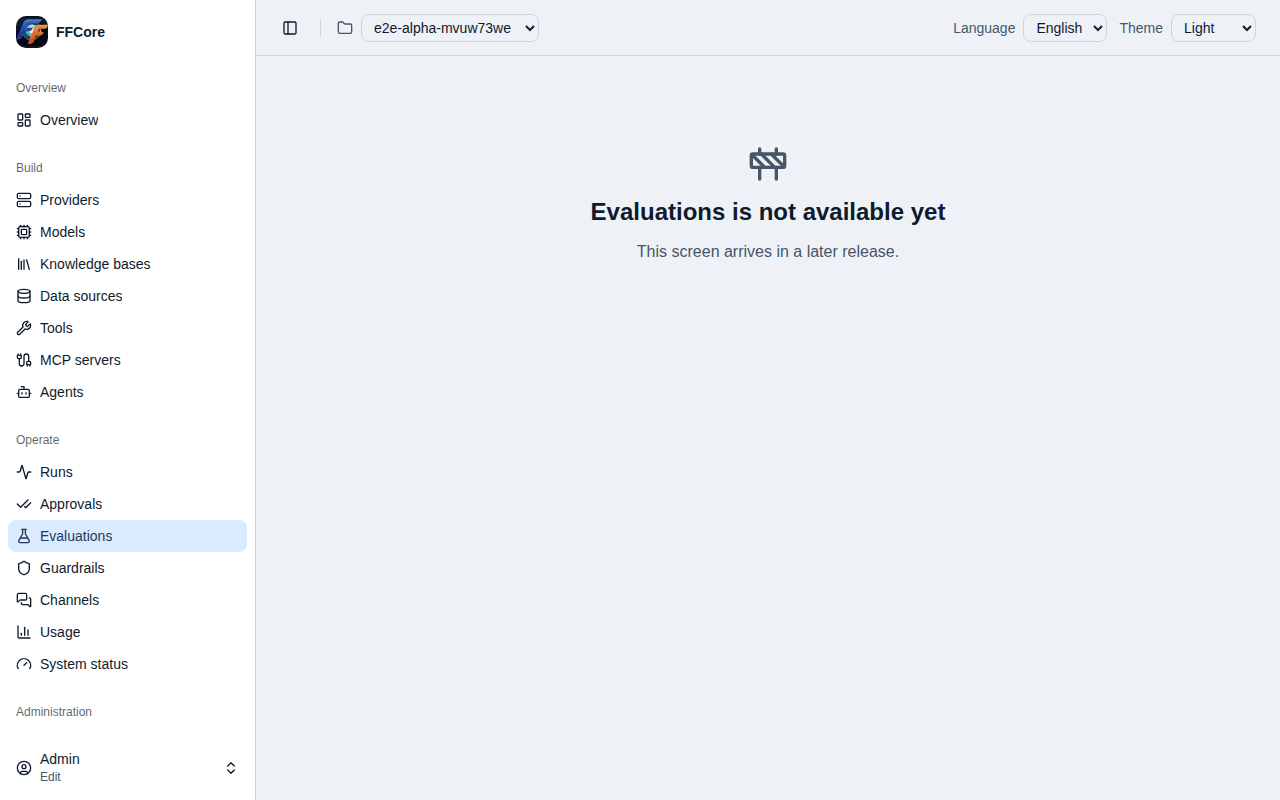
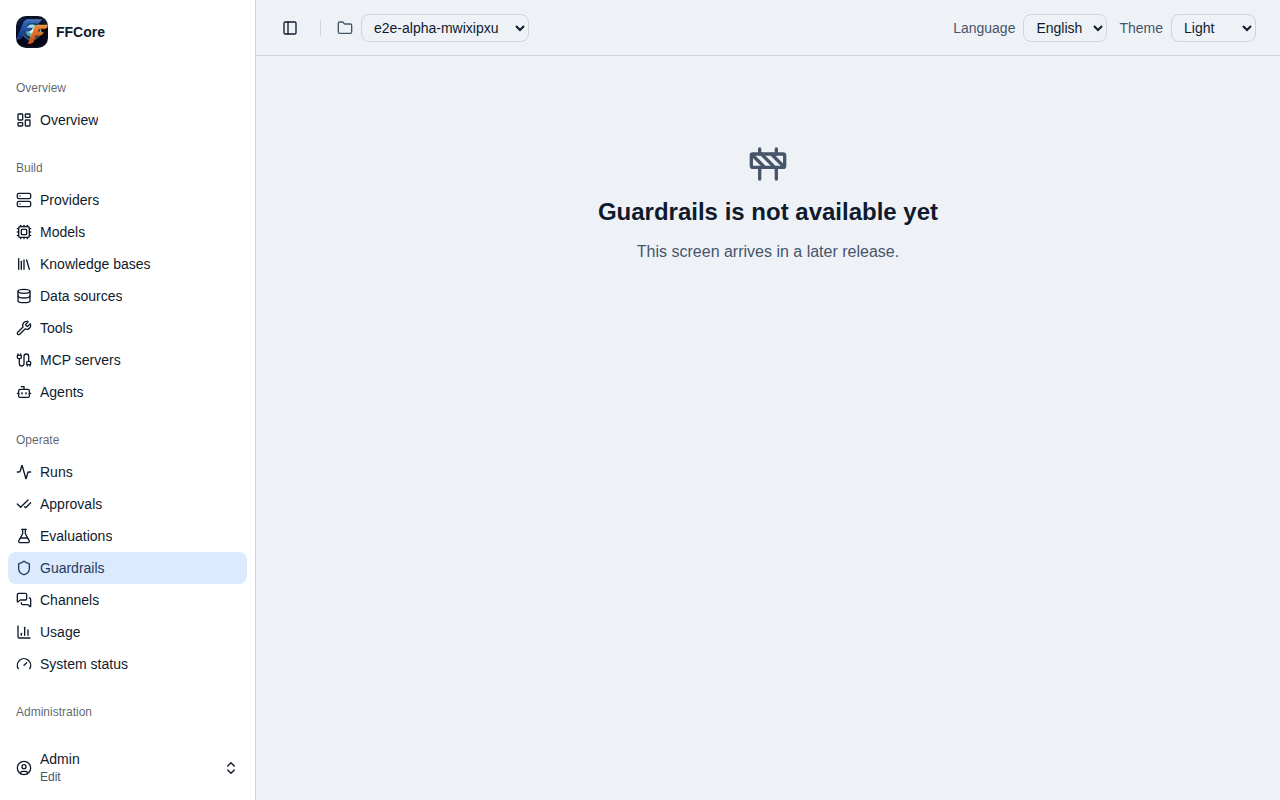
docs(frontend): evaluations screens in onyuz.md with both-theme and edit/read screenshots (10c-1)
The read-only e2e pairs the two superadmins (edit and read) so only the controls and the badge
differ; the not-available screenshot moves to Guardrails now that Evaluations is open.

Changed region(s): [[0.0, 0.625, 0.2188, 0.75], [0.4375, 0.25, 0.75, 0.2812], [0.3438, 0.0312, 0.4062, 0.0625]]

diff --git a/frontend/tests/e2e/test_10c1_5_read_only.spec.ts b/frontend/tests/e2e/test_10c1_5_read_only.spec.ts
@@ -7,7 +7,8 @@ import { selectProject, signIn } from "./support";
 
 // GOREV kabul 5 (brief 10): a read-only user sees every exam screen with the same data and no
 // change control enabled. Each screen is captured in edit and in read mode for the PR
-// (docs/images/10c1-<screen>-{edit,read}.png); the difference is the controls and the badge only.
+// (docs/images/10c1-<screen>-{edit,read}.png) by the two superadmins of the fixture (edit and
+// read: same role, same menu), so the difference is the controls and the badge only.
 type Data = Awaited<ReturnType<typeof completedExam>>;
 
 const SCREENS: { name: string; open: (page: Page, d: Data) => Promise<unknown>; controls: string[] }[] = [
@@ -41,9 +42,9 @@ test.beforeAll(async () => {
 
 for (const screen of SCREENS) {
   test(`test_10c1_5_read_only: ${screen.name} in edit and read mode`, async ({ page, context, baseURL }) => {
-    const { alpha, analyst, reader } = fixture();
+    const { alpha, superadmin, reader } = fixture();
     for (const [mode, email] of [
-      ["edit", analyst.email],
+      ["edit", superadmin.email],
       ["read", reader.email],
     ] as const) {
       await context.clearCookies();

diff --git a/docs/onyuz.md b/docs/onyuz.md
@@ -20,11 +20,15 @@ and system status).
 | `/tools` | Tools (MCP and OpenAPI servers) of the selected project | developer | list; register (admin) |
 | `/tools/{id}` | One tool: settings, discovered actions, try an action | developer | edit, delete, discover, action switches, try (admin + edit) |
 | `/agents` | Agents of the selected project | analyst | list; create (analyst + edit) |
-| `/agents/{id}` | Agent wizard and test panel | analyst | edit the draft, publish, new draft, roll back, test run (analyst + edit) |
+| `/agents/{id}` | Agent wizard and test panel | analyst | edit the draft, publish, new draft, roll back, test run (analyst + edit); publish past the exam gate (admin + edit) |
 | `/runs` | Runs of the selected project | analyst | list with filters |
-| `/runs/{id}` | One run: summary, answer, events, expert feedback | analyst | cancel (the run's user or an admin), feedback (edit) |
+| `/runs/{id}` | One run: summary, answer, events, expert feedback, Add to exam | analyst | cancel (the run's user or an admin), feedback (edit), add to exam (completed run, analyst + edit) |
 | `/approvals` | Approval queue | analyst | list, pending by default |
 | `/approvals/{id}` | One approval | analyst | approve, reject (when `can_decide`) |
+| `/evaluations` | Exam suites of the selected project | analyst | list; create (analyst + edit) |
+| `/evaluations/{id}` | One suite: settings, exam start, its exams, compare pick | analyst | edit, delete, start an exam (analyst + edit); compare (read too) |
+| `/evaluations/runs/{id}` | One exam: live progress, summary, the 10 worst items | analyst | cancel while it runs (analyst + edit) |
+| `/evaluations/compare?a=&b=` | Two exams of one suite, item by item | analyst | read only |
 | `/overview` and every other menu item | Later packages (10c and others) | see role matrix | "not available yet" page |
 | `/dev/theme` | Components in both themes side by side | none | done |
 
@@ -208,6 +212,44 @@ contract is shown as an error, never as "ready". Without model weights the page 
   run; the buttons follow `can_decide` (signed-in user, edit access, role at least the assigned
   one) and the backend's 403/409 codes become messages.
 
+## Evaluations (09)
+
+- **Suites.** Analysts and above read suites; creating, editing, deleting and starting an exam
+  need edit access (09 `Editor = analyst, write`). The form sends only what is filled: a blank
+  dataset name, pass threshold or scorer value leaves the backend's documented default
+  (`<project_key>.<key>`, `EVAL_PASS_THRESHOLD`, judge 4, semantic 0.8). `approve_tools` is an
+  explicit switch with its consequence written next to it; the exam never approves anything.
+  Binding an agent makes the suite gate that agent's publish.
+- **Items.** Exam questions live in the suite's Langfuse dataset (09 brief, ARCH-09). The console
+  does not list or edit them (K-10C1-0002 S2); it adds one from a completed run with "Add to
+  exam" on the run page. The backend masks the question and the expectation with the agent's
+  egress policy first, and the console shows what it did (`masking`: `none`, `regex` with person
+  names stored as written, or `regex+ner`; `masked_fields`). Refusals keep their code:
+  `run_input_blocked`, `expected_would_be_masked`, `ner_unavailable`.
+- **Exams.** "Start exam" takes the suite's gated agent (or one the user picks) and a version with
+  a visible default: the draft when there is one, else the published version (S4). The exam page
+  follows `GET /eval-runs/{id}/stream` with `fetch`: `progress` counts, then `done`; an unknown
+  event name is logged and skipped. A dropped stream is reopened a few times, then reported as
+  lost and the page reads the exam with `GET` every few seconds; nothing is guessed about how it
+  ended. The summary is shown as written: pass rate against the threshold, scored / items,
+  completeness (`complete=false` says the exam did not finish unattended), not-run reasons with
+  their code (`approval_required`, `partial:<code>` for some repeats, an unknown code raw),
+  errors (`judge_out_of_time`, `judge_failed:*`, `advance_failed:*`), outcome and style counts,
+  warm-up apart from latency, and the 10 worst items, labelled as such: a full item table needs
+  FOLLOWUP-185. `EvalRunOut.summary` is untyped in the contract, so the console reads it with a
+  narrow schema and shows "could not be read" with the failing field rather than an empty result.
+- **Compare.** Two completed exams of one suite, picked on the suite page (read access too):
+  summary differences, each exam's completeness, the configuration warning (`config_differs`),
+  item changes (`fixed`, `regressed`, `same`, `not_comparable`, `only_a`, `only_b`) and the 10
+  worst. Another pair shows `eval_runs_not_comparable` with its message.
+- **Publish gate.** A publish the gate refuses (409 `eval_gate_failed`) lists each bound suite
+  and its reason, read from the message (`<key>=<reason>`; FOLLOWUP-176); an unknown reason or
+  another message shape is shown as written. "Publish past the gate" is for an admin with edit
+  access and needs a reason; others see it disabled with why (backend 403
+  `force_requires_admin`, 422 `force_reason_required`). The versions table links each version to
+  the exam that opened its gate (`eval_run_id`); "—" when there is none (no bound suite, or a
+  forced publish).
+
 ## Provider and model forms
 
 - **Driver fields.** The provider form asks `GET /provider-drivers` which uses and configuration
@@ -293,7 +335,13 @@ It also gets `LITELLM_URL` and `LITELLM_MASTER_KEY` (the `.env.test` test value)
 LiteLLM's `/model/info`; the key goes only in a header. CI runs the same commands. Playwright image: `mcr.microsoft.com/playwright:v1.64.1-noble`
 (`sha256:47b510dd9230bf0b9bfc9b20102241e577ea7a99334ab4c3ca19f19770e9b8ea`), matching
 `@playwright/test` 1.64.1, pinned in `deploy/docker-compose.yml`. Screenshots are written to
-`docs/images/<package>-<screen>-<theme>.png` (10a, 10bp1, 10mrk, 10bp2).
+`docs/images/<package>-<screen>-<theme>.png` (10a, 10bp1, 10mrk, 10bp2, 10c1).
+
+The exam tests (10c-1) need nothing more than the agent tests: Langfuse and the background
+worker's advancer are default services, fake-llm answers "hello", and each test adds its exam
+items from a completed run (from-run), so no `seed-eval` is needed. Without network access
+(`npm ci` cannot reach a registry), fill the stack's `e2e_node_modules` volume from an existing
+glibc `node_modules` volume and run `npx playwright test` instead of `npm ci && …`.
 
 ## Screenshots
 
@@ -323,3 +371,10 @@ LiteLLM's `/model/info`; the key goes only in a header. CI runs the same command
 | Run detail | ![](images/10bp2-run-detail-light.png) | ![](images/10bp2-run-detail-dark.png) |
 | Approvals | ![](images/10bp2-approvals-light.png) | ![](images/10bp2-approvals-dark.png) |
 | Approval detail | ![](images/10bp2-approval-detail-light.png) | ![](images/10bp2-approval-detail-dark.png) |
+| Exam suites | ![](images/10c1-suites-light.png) | ![](images/10c1-suites-dark.png) |
+| New suite | ![](images/10c1-suite-new-light.png) | ![](images/10c1-suite-new-dark.png) |
+| Suite: exam start, exams | ![](images/10c1-suite-light.png) | ![](images/10c1-suite-dark.png) |
+| Exam result | ![](images/10c1-exam-light.png) | ![](images/10c1-exam-dark.png) |
+| Compare exams | ![](images/10c1-compare-light.png) | ![](images/10c1-compare-dark.png) |
+| Add to exam | ![](images/10c1-from-run-light.png) | ![](images/10c1-from-run-dark.png) |
+| Suite, edit and read mode | ![](images/10c1-suite-edit.png) | ![](images/10c1-suite-read.png) |
